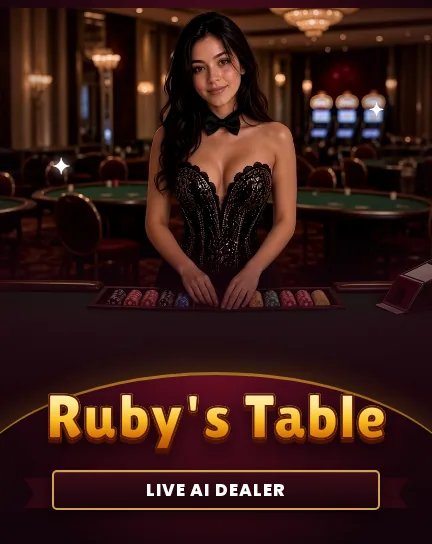
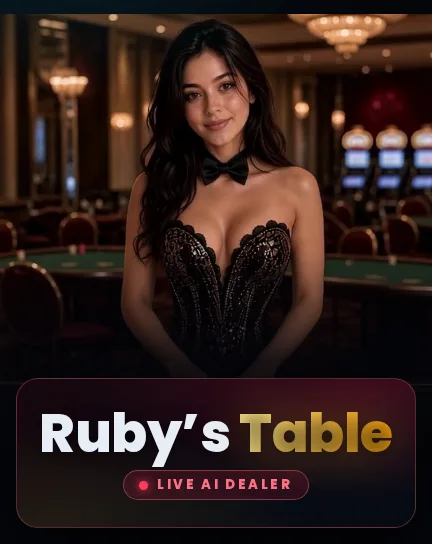
Ruby's Table: port /ruby and lobby tile to the approved v7 intro design
/ruby now follows the approved 'Take a seat' intro (06-intro): Ruby
full-bleed with her greeting bubble, ruby-glass card with the live
eyebrow, gold 'Table' title, Talk / 53 moves / Side bets tiles, house
rules with Morbius chip art, gold Take a seat CTA (same tab), sound
note and the private-beta note. Desktop shows her full 16:9 frame with
the card floating on the left. The lobby tile uses the same card
treatment.

diff --git a/app/ruby/ruby.css b/app/ruby/ruby.css
@@ -1,103 +1,112 @@
 /* ============================================================
    /ruby — Ruby's Table landing page.
-   Builds on the home2 tokens (app/home2.css, scoped under .home2)
-   and the Forge promo-panel language, with a ruby/rose accent.
-   Every selector is scoped under `.home2.ruby-page`.
+   Port of the approved v7 "Take a seat" intro (mockups/blackjack/06-intro):
+   Ruby full-bleed, her greeting bubble, and the ruby-glass card with the
+   gold hero CTA. Built on the home2 tokens (app/home2.css, scoped under
+   .home2). Every selector is scoped under `.home2.ruby-page` and uses an
+   rb- prefix so nothing leaks.
    ============================================================ */
 .home2.ruby-page{
   --ruby:#e11d48; --ruby-soft:#fb7185; --ruby-dim:rgba(225,29,72,.14);
-  min-height:100vh;
-  background:
-    radial-gradient(900px 480px at 80% -10%, rgba(225,29,72,.14), transparent 60%),
-    radial-gradient(700px 420px at 0% 30%, rgba(167,139,250,.07), transparent 60%),
-    var(--bg0);
+  min-height:100vh; background:var(--bg0); overflow-x:hidden;
 }
-.home2.ruby-page section.ruby-zone{padding-top:28px; max-width:1240px; margin:0 auto}
+.home2.ruby-page .rb-stage{position:relative; display:block}
 
-/* ---- panel: image + copy (stacked on mobile, side by side on desktop) ---- */
-.home2.ruby-page .ruby-panel{
-  position:relative; display:grid; grid-template-columns:1fr; gap:0;
-  border-radius:22px; border:1px solid rgba(251,113,133,.24); overflow:hidden;
+/* ---- hero: Ruby, centered, full-bleed (mobile first) ---- */
+.home2.ruby-page .rb-hero{position:relative; height:min(165vw,680px); overflow:hidden; background:#0b0710}
+.home2.ruby-page .rb-photo{position:absolute; top:0; left:50%; height:100%; width:auto; max-width:none;
+  transform:translateX(-50%); display:block}
+.home2.ruby-page .rb-shade{position:absolute; inset:0; pointer-events:none;
+  background:
+    linear-gradient(180deg, rgba(4,5,10,.55) 0%, rgba(4,5,10,0) 12%, rgba(4,5,10,0) 54%, rgba(4,5,10,.86) 77%, #04050a 96%),
+    radial-gradient(900px 420px at 12% -10%, rgba(34,211,238,.13), transparent 60%)}
+
+/* her greeting: home2 dealer bubble */
+.home2.ruby-page .rb-greet{position:absolute; z-index:2; right:12px; top:36%; max-width:176px;
+  padding:9px 13px 10px; border-radius:18px 18px 18px 5px;
+  background:linear-gradient(160deg, rgba(22,34,56,.96), rgba(12,19,33,.96));
+  border:1px solid rgba(34,211,238,.28); box-shadow:0 10px 30px rgba(0,0,0,.45);
+  font:500 13.5px/1.38 var(--font); color:var(--text)}
+.home2.ruby-page .rb-who{display:flex; align-items:center; gap:6px; margin-bottom:2px;
+  font:800 8.5px var(--font); letter-spacing:.22em; text-transform:uppercase; color:var(--cyan)}
+.home2.ruby-page .rb-who i{width:7px; height:7px; border-radius:50%; background:var(--emerald);
+  box-shadow:0 0 8px var(--emerald); animation:rb-pulse 1.6s ease-in-out infinite}
+@keyframes rb-pulse{0%,100%{opacity:1} 50%{opacity:.35}}
+
+/* ---- the ruby-glass card ---- */
+.home2.ruby-page .rb-card{position:relative; z-index:3; margin:calc(-1 * min(64vw, 250px)) 14px 0;
+  padding:18px 18px 16px; border-radius:22px;
   background:
     radial-gradient(ellipse at 88% 8%, rgba(225,29,72,.16), transparent 55%),
     radial-gradient(ellipse at 8% 100%, rgba(251,191,36,.08), transparent 50%),
-    linear-gradient(165deg,#1a070f,#080b14 72%);
-  box-shadow:0 30px 80px rgba(0,0,0,.55), 0 0 60px rgba(225,29,72,.08);
-}
-.home2.ruby-page .ruby-panel::before{content:''; position:absolute; inset:0; pointer-events:none; z-index:0;
-  background:repeating-linear-gradient(115deg, rgba(255,255,255,.018) 0 2px, transparent 2px 9px)}
+    linear-gradient(165deg, rgba(26,7,15,.92), rgba(8,11,20,.94) 72%);
+  border:1px solid rgba(251,113,133,.24); box-shadow:0 30px 80px rgba(0,0,0,.7);
+  -webkit-backdrop-filter:blur(14px); backdrop-filter:blur(14px)}
+.home2.ruby-page .rb-eyebrow{display:inline-flex; align-items:center; gap:8px; height:26px; padding:0 12px;
+  border-radius:99px; border:1px solid rgba(251,113,133,.35); background:var(--ruby-dim); color:var(--ruby-soft);
+  font:800 9.5px var(--font); letter-spacing:.2em; text-transform:uppercase; white-space:nowrap}
+.home2.ruby-page .rb-eyebrow i{width:7px; height:7px; border-radius:50%; background:#ff3b5c; box-shadow:0 0 8px #ff3b5c; flex:none}
+.home2.ruby-page .rb-card h1{margin:10px 0 6px; font:800 36px/1.04 var(--font); letter-spacing:-.01em; color:var(--text)}
+.home2.ruby-page .rb-card h1 span{background:linear-gradient(90deg,#fde68a,#f59e0b);
+  -webkit-background-clip:text; background-clip:text; color:transparent;
+  filter:drop-shadow(0 0 24px rgba(251,191,36,.25))}
+.home2.ruby-page .rb-lead{margin:0 0 14px; font:500 13px/1.45 var(--font); color:var(--text2)}
 
-/* ---- the shot ---- */
-.home2.ruby-page .ruby-shot{position:relative; z-index:1; aspect-ratio:4 / 5; max-height:72vh; overflow:hidden; background:#12040a}
-.home2.ruby-page .ruby-shot img{display:block; width:100%; height:100%; object-fit:cover; object-position:50% 18%}
-.home2.ruby-page .ruby-shot::after{content:''; position:absolute; inset:0; pointer-events:none;
-  background:linear-gradient(180deg, rgba(8,11,20,0) 55%, rgba(18,6,12,.55) 80%, #13070e 100%)}
-.home2.ruby-page .ruby-tags{position:absolute; left:14px; top:14px; z-index:2; display:flex; gap:7px; flex-wrap:wrap}
-.home2.ruby-page .ruby-tag{display:inline-flex; align-items:center; gap:6px; font-size:10px; font-weight:800;
-  letter-spacing:.12em; text-transform:uppercase; color:#fff; border-radius:7px; padding:6px 10px;
-  box-shadow:0 4px 14px rgba(0,0,0,.45)}
-.home2.ruby-page .ruby-tag.new{background:linear-gradient(180deg,#c8283a,#a51d2c)}
-.home2.ruby-page .ruby-tag.live{background:linear-gradient(90deg,#4e2ed6,#5038e2 62%,#4c26ce)}
-.home2.ruby-page .ruby-tag.live i{width:7px; height:7px; border-radius:50%; background:var(--emerald);
-  box-shadow:0 0 8px var(--emerald); animation:ruby-pulse 1.8s ease-in-out infinite}
-@keyframes ruby-pulse{0%,100%{opacity:1} 50%{opacity:.35}}
+.home2.ruby-page .rb-feats{list-style:none; margin:0 0 14px; padding:0; display:grid; grid-template-columns:repeat(3,1fr); gap:8px}
+.home2.ruby-page .rb-feats li{display:flex; align-items:center; gap:6px; padding:8px; border-radius:12px; min-width:0;
+  background:var(--panel2); border:1px solid var(--line2)}
+.home2.ruby-page .rb-e{font-size:17px; line-height:1; flex:none}
+.home2.ruby-page .rb-feats b{display:block; font:800 10.5px/1.15 var(--font); color:var(--text); white-space:nowrap}
+.home2.ruby-page .rb-feats small{display:block; font:500 9px var(--font); color:var(--muted); white-space:nowrap}
 
-/* ---- copy ---- */
-.home2.ruby-page .ruby-copy{position:relative; z-index:1; display:flex; flex-direction:column; padding:4px 20px 24px; margin-top:-56px}
-.home2.ruby-page .ruby-kicker{display:inline-block; align-self:flex-start; font-size:9px; font-weight:800; letter-spacing:.22em;
-  color:#fda4af; border:1px solid rgba(251,113,133,.42); background:rgba(225,29,72,.16);
-  border-radius:99px; padding:5px 12px; margin-bottom:12px; backdrop-filter:blur(6px)}
-.home2.ruby-page .ruby-copy h1{font-family:var(--display); font-weight:800; font-size:clamp(34px,5.4vw,56px);
-  letter-spacing:.01em; line-height:1.04; margin:0}
-.home2.ruby-page .ruby-copy h1 em{font-style:normal; background:linear-gradient(100deg,#fb7185,#fbbf24);
-  -webkit-background-clip:text; background-clip:text; color:transparent}
-.home2.ruby-page .ruby-tagline{font-size:13px; font-weight:700; letter-spacing:.16em; text-transform:uppercase;
-  color:var(--gold); margin:8px 0 14px}
-.home2.ruby-page .ruby-lede{font-size:14px; line-height:1.65; color:var(--text2); max-width:48ch; margin:0 0 18px}
-.home2.ruby-page .ruby-lede b{color:var(--ruby-soft); font-weight:700}
+.home2.ruby-page .rb-limits{display:flex; align-items:center; justify-content:space-between; gap:10px; margin-bottom:14px;
+  font:700 10.5px var(--font); color:var(--text2); font-variant-numeric:tabular-nums}
+.home2.ruby-page .rb-chips{display:flex; flex:none}
+.home2.ruby-page .rb-chips img{width:26px; height:26px; margin-left:-6px; filter:drop-shadow(0 4px 6px rgba(0,0,0,.55))}
 
-.home2.ruby-page .ruby-feats{list-style:none; display:grid; grid-template-columns:1fr; gap:8px; margin:0 0 22px; padding:0}
-.home2.ruby-page .ruby-feats li{display:flex; align-items:center; gap:12px; border:1px solid var(--line);
-  border-radius:12px; padding:10px 12px; background:rgba(255,255,255,.02); transition:border-color .2s, transform .2s}
-.home2.ruby-page .ruby-feats li:hover{border-color:rgba(251,113,133,.45); transform:translateY(-2px)}
-.home2.ruby-page .ruby-feats .fi{font-size:18px; line-height:1; filter:drop-shadow(0 2px 6px rgba(0,0,0,.5))}
-.home2.ruby-page .ruby-feats .ft{display:flex; flex-direction:column; gap:2px; min-width:0}
-.home2.ruby-page .ruby-feats .ft b{font-size:12.5px; font-weight:700; color:var(--text)}
-.home2.ruby-page .ruby-feats .ft i{font-style:normal; font-size:11px; color:var(--muted)}
-
-/* ---- CTA ---- */
-.home2.ruby-page .ruby-cta-row{display:flex; flex-direction:column; gap:12px}
-.home2.ruby-page .ruby-cta{
-  display:flex; align-items:center; justify-content:center; gap:10px; min-height:56px;
-  font-family:var(--display); font-weight:800; font-size:17px; letter-spacing:.05em; text-transform:uppercase;
-  color:#3b2503; background:linear-gradient(180deg,#fcd34d,#f59e0b); border-radius:14px; padding:15px 26px;
+/* gold hero CTA (home2 btn-gold / kit .mk-btn.gold.hero) with a static sheen */
+.home2.ruby-page .rb-cta{position:relative; overflow:hidden; display:flex; align-items:center; justify-content:center;
+  width:100%; height:56px; border-radius:14px; color:#3a2503;
+  background:linear-gradient(180deg,#fcd34d,#f59e0b);
   box-shadow:0 10px 30px rgba(245,158,11,.35), 0 0 22px rgba(251,191,36,.18), inset 0 1px 0 rgba(255,255,255,.45);
-  transition:transform .2s, box-shadow .2s; -webkit-tap-highlight-color:transparent;
-}
-.home2.ruby-page .ruby-cta:hover{transform:translateY(-2px); box-shadow:0 16px 40px rgba(245,158,11,.5), 0 0 30px rgba(251,191,36,.28), inset 0 1px 0 rgba(255,255,255,.45)}
-.home2.ruby-page .ruby-cta:active{transform:translateY(0) scale(.99)}
-.home2.ruby-page .ruby-cta:focus-visible{outline:2px solid var(--cyan); outline-offset:3px}
-.home2.ruby-page .ruby-note{display:flex; gap:9px; align-items:flex-start; margin:0; font-size:11.5px; line-height:1.55;
-  color:var(--muted); border:1px dashed rgba(251,113,133,.28); border-radius:12px; padding:10px 12px; background:rgba(225,29,72,.05)}
-.home2.ruby-page .ruby-note b{color:#fda4af; font-weight:700}
+  font:800 15px var(--font); letter-spacing:.08em; text-transform:uppercase;
+  transition:transform .25s cubic-bezier(.34,1.56,.64,1), box-shadow .2s; -webkit-tap-highlight-color:transparent}
+.home2.ruby-page .rb-cta::after{content:''; position:absolute; inset:0; pointer-events:none;
+  background:linear-gradient(105deg, transparent 40%, rgba(255,255,255,.35) 50%, transparent 60%); transform:translateX(-35%)}
+.home2.ruby-page .rb-cta:hover{box-shadow:0 16px 40px rgba(245,158,11,.5), 0 0 30px rgba(251,191,36,.28), inset 0 1px 0 rgba(255,255,255,.45)}
+.home2.ruby-page .rb-cta:active{transform:scale(.96); box-shadow:0 2px 8px rgba(245,158,11,.35), inset 0 2px 5px rgba(0,0,0,.25)}
+.home2.ruby-page .rb-cta:focus-visible{outline:2px solid var(--cyan); outline-offset:3px}
 
-/* ---- tablet / desktop: Forge-style two-column panel ---- */
-@media (min-width:700px){
-  .home2.ruby-page .ruby-feats{grid-template-columns:1fr 1fr}
+.home2.ruby-page .rb-fine{display:flex; align-items:center; justify-content:center; gap:6px; margin:11px 0 0;
+  font:600 10.5px var(--font); color:var(--muted); text-align:center}
+.home2.ruby-page .rb-fine svg{width:14px; height:14px; flex:none; fill:none; stroke:var(--rose); stroke-width:2;
+  stroke-linecap:round; stroke-linejoin:round}
+.home2.ruby-page .rb-beta{display:flex; align-items:center; justify-content:center; gap:6px; margin:8px 0 0;
+  font:800 9px var(--font); letter-spacing:.16em; text-transform:uppercase; color:var(--ruby-soft)}
+
+/* ---- tablet: same stack, card capped and centered ---- */
+@media (min-width:600px){
+  .home2.ruby-page .rb-card{max-width:520px; margin-left:auto; margin-right:auto}
 }
+
+/* ---- desktop: Ruby's full 16:9 frame, card floats on the left ---- */
 @media (min-width:1024px){
-  .home2.ruby-page section.ruby-zone{padding-top:40px}
-  .home2.ruby-page .ruby-panel{grid-template-columns:minmax(380px,1fr) 1.15fr; align-items:stretch}
-  .home2.ruby-page .ruby-shot{aspect-ratio:auto; max-height:none; min-height:520px; order:2}
-  .home2.ruby-page .ruby-shot img{position:absolute; inset:0; object-position:50% 30%}
-  .home2.ruby-page .ruby-shot::after{background:linear-gradient(90deg, #13070e 0%, rgba(19,7,14,.55) 14%, rgba(8,11,20,0) 38%)}
-  .home2.ruby-page .ruby-tags{left:auto; right:16px}
-  .home2.ruby-page .ruby-copy{order:1; margin-top:0; padding:40px 8px 40px 38px; justify-content:center}
-  .home2.ruby-page .ruby-cta-row{flex-direction:row; align-items:center; flex-wrap:wrap}
-  .home2.ruby-page .ruby-cta{min-width:240px}
-  .home2.ruby-page .ruby-note{flex:1 1 260px}
+  .home2.ruby-page .rb-stage{max-width:1180px; margin:28px auto 0; padding:0 28px}
+  .home2.ruby-page .rb-hero{height:auto; aspect-ratio:16 / 9; min-height:600px; border-radius:22px;
+    border:1px solid var(--line2); box-shadow:0 30px 80px rgba(0,0,0,.55), 0 0 60px rgba(225,29,72,.08)}
+  .home2.ruby-page .rb-photo{left:0; width:100%; height:100%; transform:none; object-fit:cover; object-position:58% 30%}
+  .home2.ruby-page .rb-shade{background:
+    linear-gradient(90deg, rgba(4,5,10,.88) 0%, rgba(4,5,10,.55) 26%, rgba(4,5,10,0) 46%),
+    linear-gradient(180deg, rgba(4,5,10,0) 70%, rgba(4,5,10,.6) 100%),
+    radial-gradient(900px 420px at 12% -10%, rgba(34,211,238,.13), transparent 60%)}
+  .home2.ruby-page .rb-greet{right:10%; top:30%; max-width:200px}
+  .home2.ruby-page .rb-card{position:absolute; left:56px; top:50%; transform:translateY(-50%);
+    width:430px; max-width:none; margin:0; padding:22px 22px 18px}
+  .home2.ruby-page .rb-card h1{font-size:44px}
+  .home2.ruby-page .rb-lead{font-size:14px}
 }
+
 @media (prefers-reduced-motion:reduce){
-  .home2.ruby-page .ruby-tag.live i{animation:none}
-  .home2.ruby-page .ruby-feats li, .home2.ruby-page .ruby-cta{transition:none}
+  .home2.ruby-page .rb-who i{animation:none}
+  .home2.ruby-page .rb-cta{transition:none}
 }

diff --git a/app/ruby/page.tsx b/app/ruby/page.tsx
@@ -6,9 +6,13 @@ import './ruby.css'
 
 /**
  * /ruby — landing page for Ruby's Table, the private-beta AI live-dealer
- * blackjack game. The game itself is a separate app with its own password
- * gate; its session cookie is SameSite=Lax, so it can't run in a cross-site
- * iframe on iOS Safari. This page links out to it in the same tab instead.
+ * blackjack game. Port of the approved "Take a seat" intro screen
+ * (Ruby's Table v7 mockups, 06-intro): Ruby full-bleed, her greeting bubble,
+ * and the ruby-glass card with the gold Take a seat CTA.
+ *
+ * The game is a separate app behind its own password gate; its session
+ * cookie is SameSite=Lax, so it can't run in a cross-site iframe on iOS
+ * Safari. The CTA links out to it in the same tab instead.
  *
  * Server component: static markup only, no page-specific client JS. Styles
  * reuse the home2 tokens (scoped under .home2) plus ./ruby.css.
@@ -18,7 +22,7 @@ const RUBY_URL = 'https://rubys-table.vercel.app/?from=morbius'
 
 const TITLE = "Ruby's Table — Live AI Dealer Blackjack"
 const DESCRIPTION =
-  'Sit down with Ruby, a filmed live dealer with an AI voice. Talk to her, ask her to wave, shuffle or blow a kiss, and play blackjack one-on-one. Private beta.'
+  'Blackjack with a real, filmed dealer who talks back. Talk to Ruby, ask her for a wink, a shuffle or a blown kiss, and take a seat at her private table.'
 
 export const metadata: Metadata = {
   metadataBase: new URL('https://morbius.io'),
@@ -42,76 +46,91 @@ export const metadata: Metadata = {
 }
 
 const FEATS = [
-  { ic: '🎙', t: 'Talk to her', d: 'hold the mic and chat, she answers out loud' },
-  { ic: '👋', t: 'Ask for a move', d: 'wave, shuffle or blow you a kiss' },
-  { ic: '🎥', t: 'Real filmed dealer', d: 'photoreal video, not a cartoon' },
-  { ic: '🃏', t: 'One-on-one blackjack', d: 'hit, stand, double & split' },
+  { e: '🎙', t: 'Talk', d: 'Voice · text' },
+  { e: '💋', t: '53 moves', d: 'Just ask' },
+  { e: '🃏', t: 'Side bets', d: 'PP · 21+3' },
 ]
+
+const CHIPS = ['red', 'green', 'black', 'blue']
 
 export default function RubyPage() {
   return (
     <GlobalMainNav>
       <div className="home2 ruby-page">
-        <section className="zone ruby-zone">
-          <div className="ruby-panel">
-            <div className="ruby-shot">
-              <img
-                src="/ruby/ruby-hero.webp"
-                alt="Ruby standing behind the blackjack table, smiling, chips in the tray"
-                width={1280}
-                height={720}
-                fetchPriority="high"
-                decoding="async"
-              />
-              <div className="ruby-tags">
-                <span className="ruby-tag new">New</span>
-                <span className="ruby-tag live">
-                  <i aria-hidden="true" /> AI Live Dealer
-                </span>
+        <main className="rb-stage">
+          <div className="rb-hero">
+            <img
+              className="rb-photo"
+              src="/ruby/ruby-hero.webp"
+              alt="Ruby standing behind her blackjack table, smiling"
+              width={1280}
+              height={720}
+              fetchPriority="high"
+              decoding="async"
+            />
+            <div className="rb-shade" aria-hidden="true" />
+            <div className="rb-greet">
+              <div className="rb-who">
+                <i aria-hidden="true" />
+                Ruby
               </div>
-            </div>
-
-            <div className="ruby-copy">
-              <div className="ruby-kicker">BLACKJACK &middot; PRIVATE BETA</div>
-              <h1>
-                Ruby&rsquo;s <em>Table</em>
-              </h1>
-              <p className="ruby-tagline">Live AI dealer blackjack</p>
-              <p className="ruby-lede">
-                Ruby deals, reacts and talks back. Ask her how her night is going,
-                tell her to shuffle up, or just play your hand &mdash; she&rsquo;s{' '}
-                <b>listening</b>.
-              </p>
-
-              <ul className="ruby-feats">
-                {FEATS.map((f) => (
-                  <li key={f.t}>
-                    <span className="fi" aria-hidden="true">
-                      {f.ic}
-                    </span>
-                    <span className="ft">
-                      <b>{f.t}</b>
-                      <i>{f.d}</i>
-                    </span>
-                  </li>
-                ))}
-              </ul>
-
-              <div className="ruby-cta-row">
-                <a className="ruby-cta" href={RUBY_URL}>
-                  Take a seat <span aria-hidden="true">→</span>
-                </a>
-                <p className="ruby-note">
-                  <span aria-hidden="true">🔒</span>
-                  <span>
-                    <b>Private beta &middot; password required.</b> Ruby&rsquo;s Table
-                    opens in its own lobby. Best with sound on and the mic allowed.
-                  </span>
-                </p>
-              </div>
+              Hey, you. I saved you the best seat in the house.
             </div>
           </div>
-        </section>
+
+          <section className="rb-card" aria-labelledby="rb-title">
+            <span className="rb-eyebrow">
+              <i aria-hidden="true" />
+              Live AI dealer · private table
+            </span>
+            <h1 id="rb-title">
+              Ruby&rsquo;s <span>Table</span>
+            </h1>
+            <p className="rb-lead">
+              Blackjack with a real, filmed dealer who talks back. Ask her for a wink, a shuffle, a
+              little dance&hellip;
+            </p>
+
+            <ul className="rb-feats">
+              {FEATS.map((f) => (
+                <li key={f.t}>
+                  <span className="rb-e" aria-hidden="true">
+                    {f.e}
+                  </span>
+                  <span>
+                    <b>{f.t}</b>
+                    <small>{f.d}</small>
+                  </span>
+                </li>
+              ))}
+            </ul>
+
+            <div className="rb-limits">
+              <span>6 decks · S17 · BJ pays 3:2</span>
+              <span className="rb-chips" aria-hidden="true">
+                {CHIPS.map((c) => (
+                  <img key={c} src={`/ruby/chip-${c}.webp`} alt="" width={26} height={26} />
+                ))}
+              </span>
+            </div>
+
+            <a className="rb-cta" href={RUBY_URL}>
+              Take a seat
+            </a>
+
+            <p className="rb-fine">
+              <svg viewBox="0 0 24 24" aria-hidden="true">
+                <path d="M11 4.7 6.6 8.3a2 2 0 0 1-1.3.5H3.5a1 1 0 0 0-1 1v4.4a1 1 0 0 0 1 1h1.8a2 2 0 0 1 1.3.5L11 19.3a.6.6 0 0 0 1-.4V5.1a.6.6 0 0 0-1-.4Z" />
+                <path d="M16 9a5 5 0 0 1 0 6" />
+                <path d="M19.4 18.4a9 9 0 0 0 0-12.8" />
+              </svg>
+              Sound on — Ruby talks. Hold the chip to talk back.
+            </p>
+            <p className="rb-beta">
+              <span aria-hidden="true">🔒</span> Private beta · password required
+            </p>
+          </section>
+        </main>
         <Footer />
       </div>
     </GlobalMainNav>
